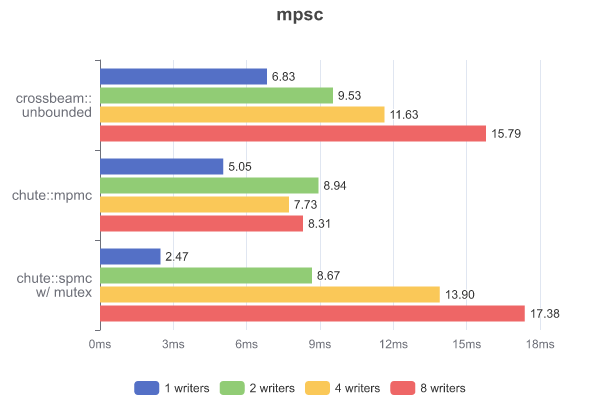
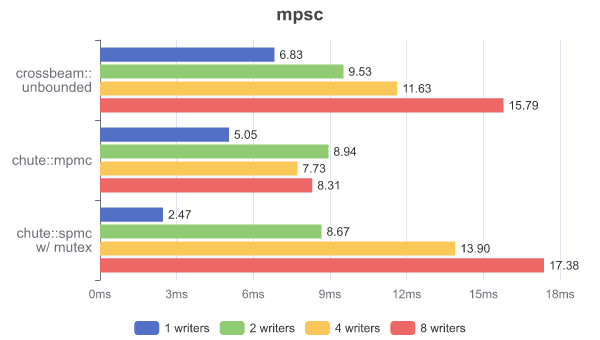
benchmark charts update

diff --git a/benchmarks/src/spsc.rs b/benchmarks/src/spsc.rs
@@ -28,7 +28,7 @@ pub fn spsc(dir_name: impl AsRef<Path>) {
     let all: Vec<(String, f64)> = vec![
         (str!("chute::spmc"), chute_spmc),
         (str!("chute::mpmc"), chute_mpmc),
-        (str!("crossbeam\n(unbounded)"), crossbeam_unbounded),
+        (str!("crossbeam::\nunbounded")/*str!("crossbeam")*/, crossbeam_unbounded),
     ];
     
     chart(&all, str!("spsc"), "out/spsc");    
@@ -54,7 +54,11 @@ pub fn chart(
             Legend::new().top("bottom")
         )
         .grid(
-            Grid::new().left(100)
+            Grid::new()
+                .left(100)
+                .right(40)
+                .top(40)
+                .bottom(25)
         )
         .y_axis(
             Axis::new()
@@ -79,6 +83,7 @@ pub fn chart(
     {
         let mut bar = 
             Bar::new()
+            .bar_width(24)
             //.name(format!("{wt} writers"))
             .label(
                 Label::new()
@@ -101,7 +106,7 @@ pub fn chart(
         chart = chart.series(Series::Bar(bar));
     }
     
-    let mut renderer = ImageRenderer::new(CHART_WIDTH, 240).theme(CHART_THEME);
+    let mut renderer = ImageRenderer::new(CHART_WIDTH, 180).theme(CHART_THEME);
     renderer.save(&chart, fname.as_ref().with_extension("svg")).unwrap();
     renderer.save_format(charming::ImageFormat::Png, &chart, fname.as_ref().with_extension("png"));    
 }

diff --git a/benchmarks/src/mpmc.rs b/benchmarks/src/mpmc.rs
@@ -70,7 +70,11 @@ pub fn chart(
             Legend::new().top("bottom")
         )
         .grid(
-            Grid::new().left(100)
+            Grid::new()
+                .left(100)
+                .right(40)
+                .top(40)
+                .bottom(60)
         )
         .y_axis(
             Axis::new()
@@ -117,7 +121,7 @@ pub fn chart(
         chart = chart.series(Series::Bar(bar));
     }
     
-    let mut renderer = ImageRenderer::new(CHART_WIDTH, 400).theme(CHART_THEME);
+    let mut renderer = ImageRenderer::new(CHART_WIDTH, 340).theme(CHART_THEME);
     renderer.save(&chart, fname.as_ref().with_extension("svg")).unwrap();
     renderer.save_format(charming::ImageFormat::Png, &chart, fname.as_ref().with_extension("png"));    
 }

diff --git a/benchmarks/src/seq.rs b/benchmarks/src/seq.rs
@@ -21,7 +21,7 @@ pub fn seq(dir_name: impl AsRef<Path>) {
     let all: Vec<(String, f64)> = vec![
         (str!("chute::spmc"), chute_spmc),
         (str!("chute::mpmc"), chute_mpmc),
-        (str!("crossbeam\n(unbounded)"), crossbeam_unbounded),
+        (str!("crossbeam::\nunbounded"), crossbeam_unbounded),
     ];
     
     spsc::chart(&all, str!("seq"), "out/seq");    
